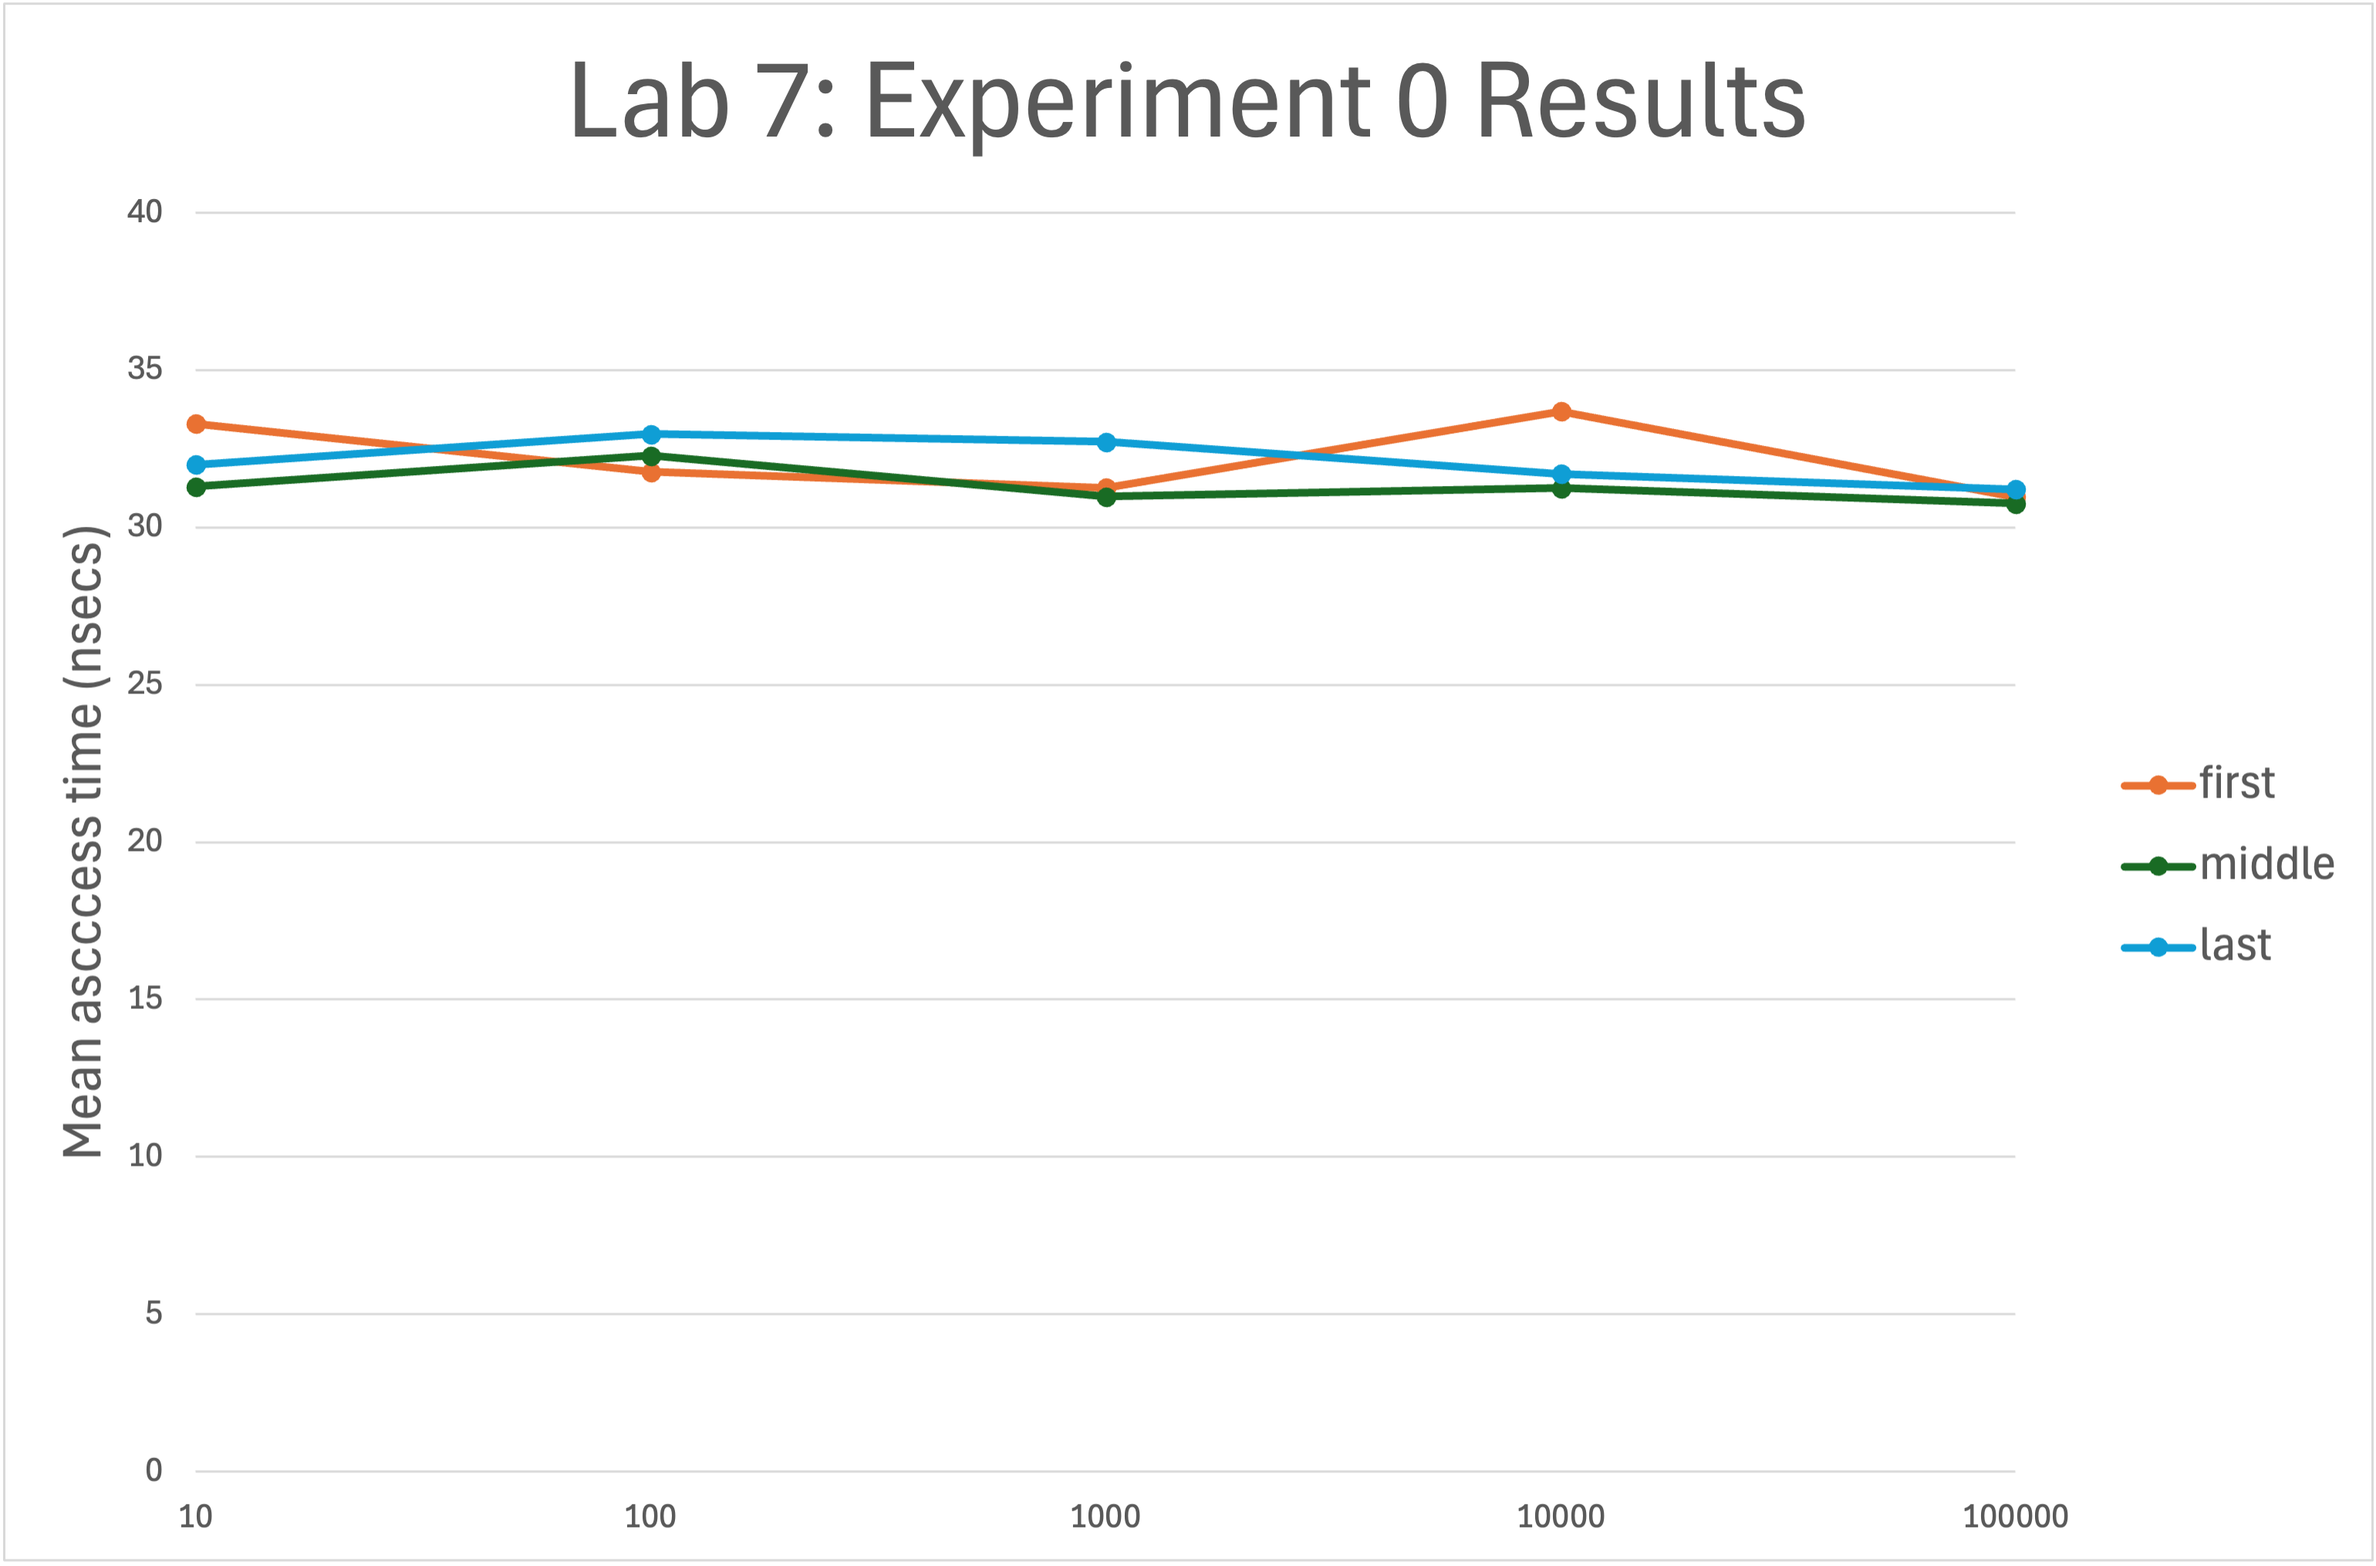
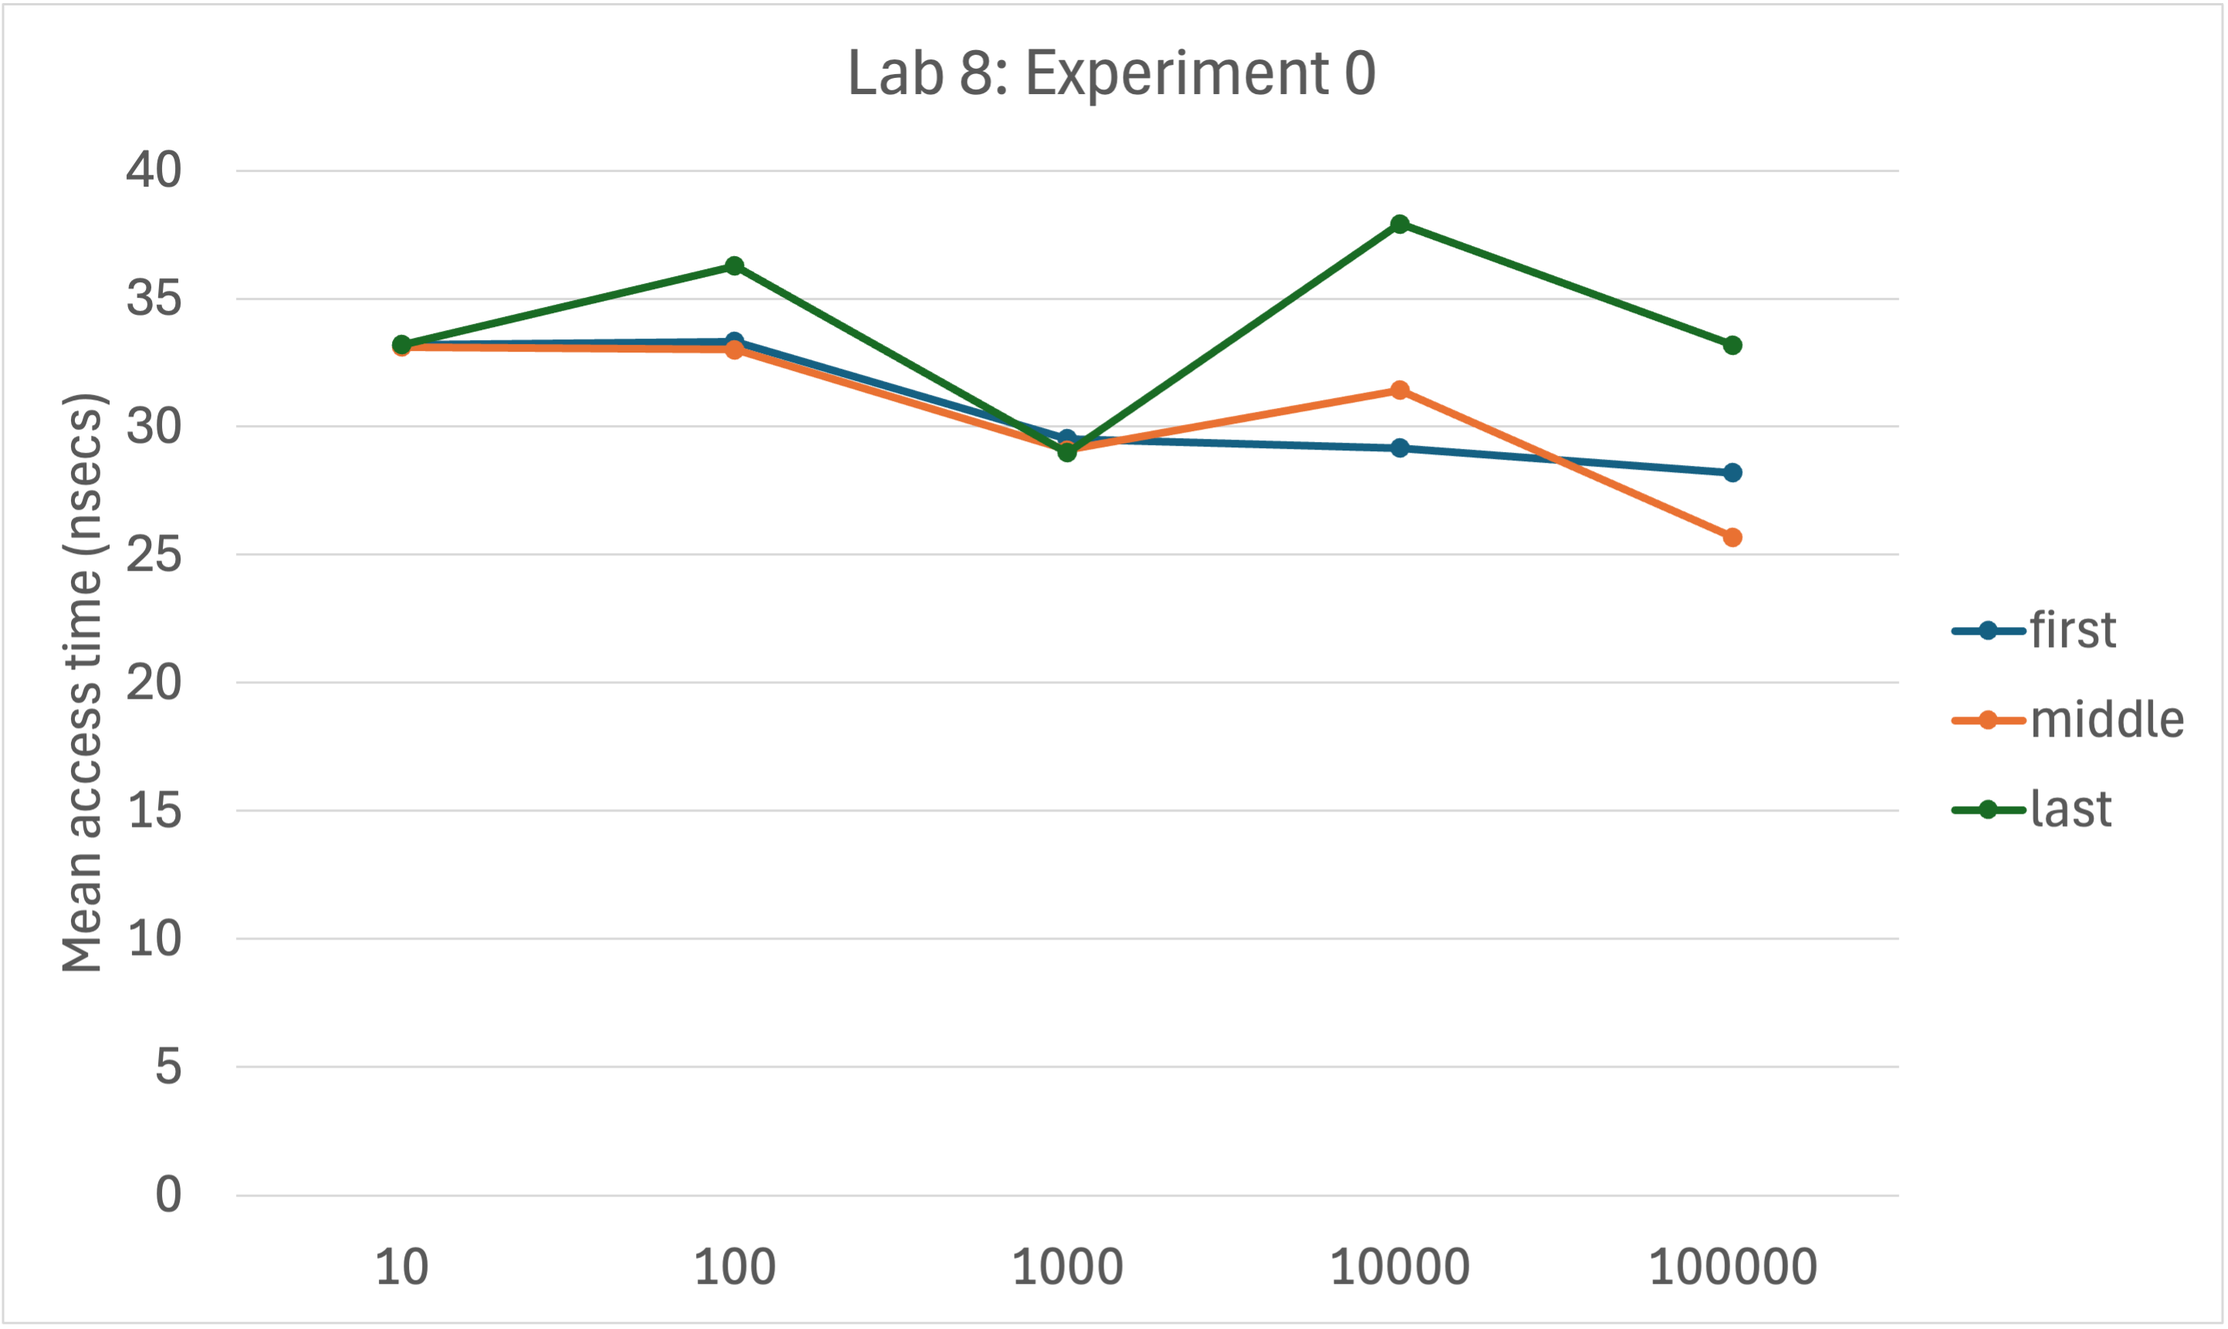
lab08 adjustments

diff --git a/docs/labs/lab08.html b/docs/labs/lab08.html
@@ -263,13 +263,13 @@ Road Runner.
 </section>
 <section id="getting-started" class="level2">
 <h2 class="anchored" data-anchor-id="getting-started">Getting Started</h2>
-<p><a href="" target="_blank">Accept the invitation</a> to the lab and do git clone to get the files, as usual. Make sure your partner is part of the same Team and edit the <strong>README.md</strong> file and share your repo on github.com</p>
+<p><a href="" target="_blank">Accept the invitation</a> to the lab and do <code>git clone</code> to get the files, as usual. Make sure your partner is part of the same Team and edit the <strong>README.md</strong> file.</p>
 </section>
 <section id="experiment-0-vector-subscript" class="level2">
 <h2 class="anchored" data-anchor-id="experiment-0-vector-subscript">Experiment 0: Vector Subscript</h2>
 <p>The purpose of this experiment is to get a feel for how to use the <code>Timer</code> class to time the vector subscript operation. This experiment contains a method named <code>timeAccessAtIndex()</code> that uses <code>Timer</code> to measure how long it takes to access the item at a given index in a vector. The <code>run()</code> method calls <code>timeAccessesForVectorOfSize()</code> for various vector sizes. This method calls the <code>timeAccessesAtIndex()</code> method three times, to see how long it takes to access the first, middle and last value in the vector.</p>
-<p>Compile (<code>make all</code>) and run <code>./lab7</code>.</p>
-<p>To report your results, create an online spreadsheet – either Google Sheets or online Excel. On the worksheet, write <code>Lab 7: Experiment 0</code> in the first row; on the next row create column-headings labeled <code>size</code>, <code>first</code>, <code>middle</code>, and <code>last</code>. Then add rows for each vector size (i.e., 10, 100, 1000, 10000, 100000). For each row size, enter the times your program displayed for accessing the first, middle, and last value in the vector of size size.</p>
+<p>Compile (<code>make all</code>) and run <code>./lab8</code>.</p>
+<p>To report your results, create an online spreadsheet – either Google Sheets or online Excel. On the worksheet, write <code>Lab 8: Experiment 0</code> in the first row; on the next row create column-headings labeled <code>size</code>, <code>first</code>, <code>middle</code>, and <code>last</code>. Then add rows for each vector size (i.e., 10, 100, 1000, 10000, 100000). For each row size, enter the times your program displayed for accessing the first, middle, and last value in the vector of size size.</p>
 <p>When you have entered all of your data, create a well-labeled line chart from your timing results. Your chart should look something like this:</p>
 <p><img src="../images/labs/lab08/exp0.png" class="img-fluid"></p>
 <p>Note these properties of the graph:</p>
@@ -278,7 +278,7 @@ Road Runner.
 <li>The vertical lab gives the units.</li>
 <li>I have chosen to show the values with little circles – you can choose any shape (circle, square, etc.)</li>
 </ul>
-<p><strong>Analysis.</strong> On the chart shown above, the data are “noisy” (thanks to our imprecise clock), ranging from a low of 30.7667 nsec to a high of 33.6957 nsec. However the lines are basically flat – there is no significant change to the access time as the vector size increases by orders of magnitudes. If I use the spreadsheet to compute the averages for the first, middle, and last columns, they are all approximately the same. Your chart should be similar. (Note that I ran my tests on my MacBookPro. The values you get on the lab machines may be quite different.)</p>
+<p><strong>Analysis.</strong> On the chart shown above, the data are “noisy” (thanks to our imprecise clock), ranging from a low of 25.6798 nsec to a high of 37.9145 nsec. However the lines are basically flat – there is no significant change to the access time as the vector size increases by orders of magnitudes. If I use the spreadsheet to compute the averages for the first, middle, and last columns, they are all approximately the same. Your chart should be similar. (Note that I ran my tests on my MacBookPro. The values you get on the lab machines may be quite different.)</p>
 <p>The relative flatness of these lines and their close proximity to one another indicate that the time to perform this operation remains constant as the size of the vector increases. These results thus indicate empirically that the vector subscript operation is an <span class="math inline">\(O(1)\)</span> (i.e., constant time) operation.</p>
 </section>
 <section id="experiment-1-vector-list-appending" class="level2">
